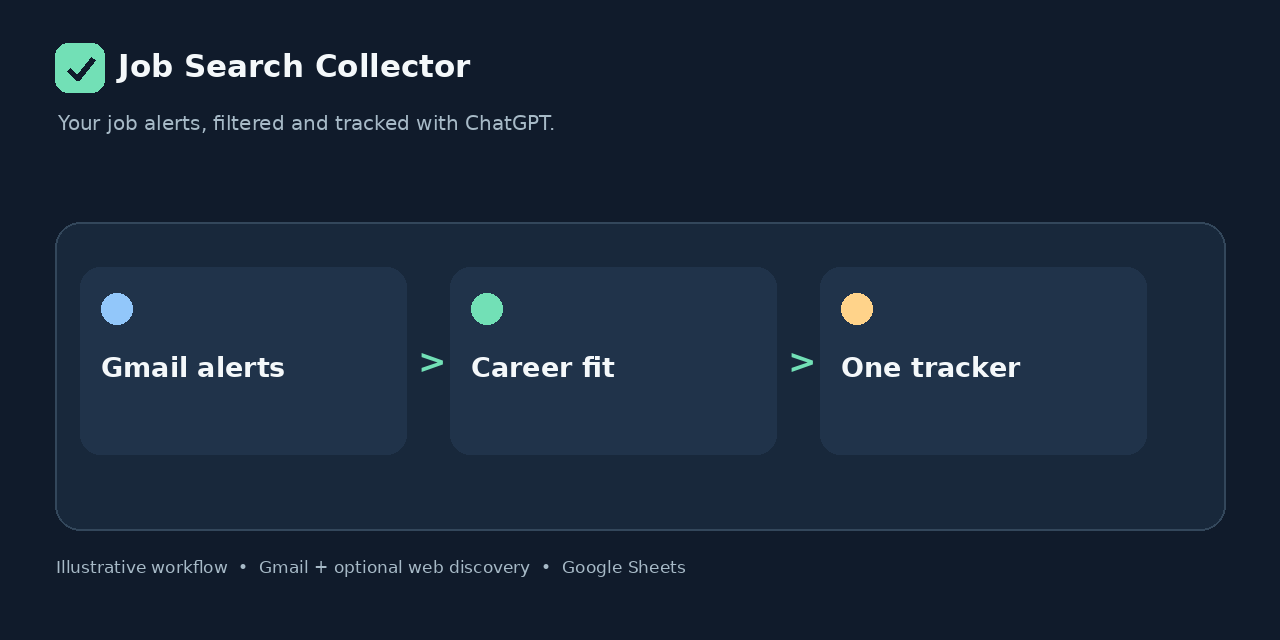
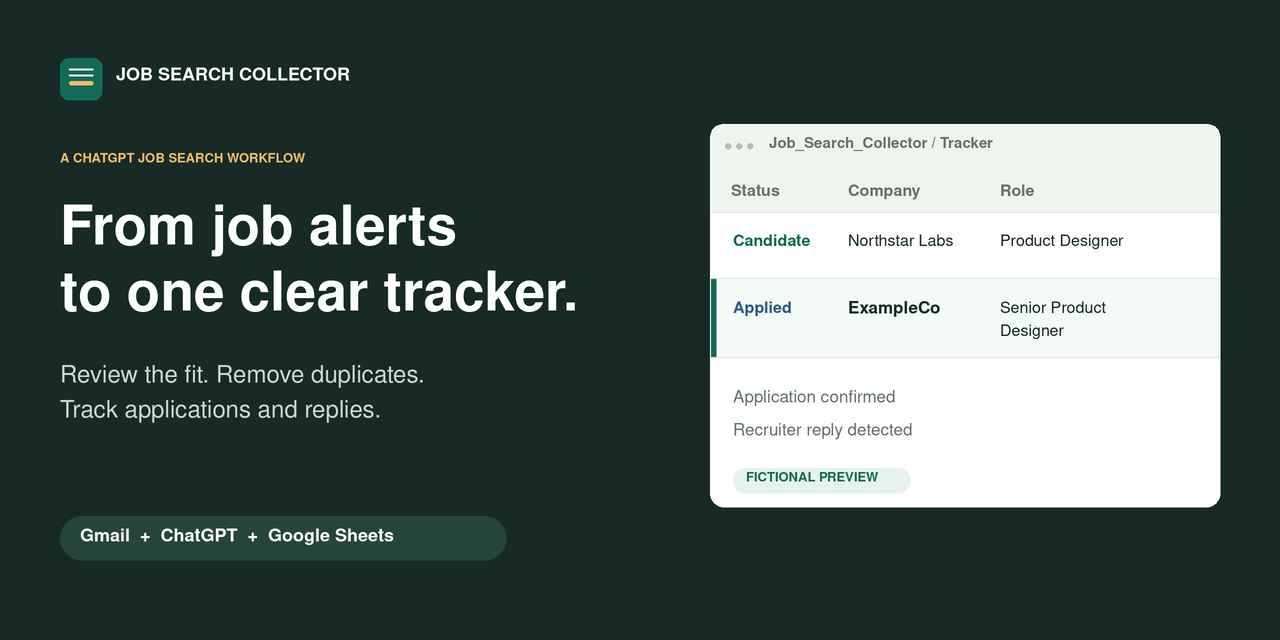
docs: redesign fictional product previews

diff --git a/tools/render_previews.py b/tools/render_previews.py
@@ -1,106 +1,224 @@
-"""Render fictional README previews. Requires Pillow; not needed to use the workflow."""
+"""Render fictional interface illustrations for the README. Requires Pillow.
+
+These assets illustrate the sample run; they are not connected account captures.
+"""
 from pathlib import Path
 from PIL import Image, ImageDraw, ImageFont
 
-ROOT = Path(__file__).resolve().parents[1]
-ASSETS = ROOT / 'assets'
+ASSETS = Path(__file__).resolve().parents[1] / "assets"
 ASSETS.mkdir(exist_ok=True)
-FONT = '/usr/share/fonts/truetype/dejavu/DejaVuSans.ttf'
-BOLD = '/usr/share/fonts/truetype/dejavu/DejaVuSans-Bold.ttf'
-C = dict(bg='#101B2B', panel='#18283B', raised='#20334A', line='#33475B', white='#F4F8FA', muted='#A7BAC7', mint='#72E0B6', blue='#92C7FA', amber='#FFD38A', sheet='#F5F8FB', ink='#26394B', pale='#E7EFF4')
+FONT = "/usr/share/fonts/opentype/urw-base35/NimbusSans-Regular.otf"
+BOLD = "/usr/share/fonts/opentype/urw-base35/NimbusSans-Bold.otf"
+PAPER, WHITE, INK = "#F6F7F3", "#FFFFFF", "#172A26"
+MUTED, FAINT, LINE = "#64736D", "#8B9992", "#DCE5DF"
+GREEN, PALE, SOFT = "#146B55", "#E5F3EC", "#F0F4EF"
 
-def f(size, bold=False): return ImageFont.truetype(BOLD if bold else FONT, size)
-def rr(d, box, fill, radius=18, outline=None, width=1): d.rounded_rectangle(box, radius=radius, fill=fill, outline=outline, width=width)
-def txt(d, at, s, size=20, color=None, bold=False): d.text(at, s, font=f(size,bold), fill=color or C['white'])
-def pill(d, box, label, fill, fg=None, size=16):
-    rr(d,box,fill,16); txt(d,(box[0]+13,box[1]+(box[3]-box[1]-size)//2-2),label,size,fg or C['ink'],True)
+class Art:
+    def __init__(self, w, h, bg=PAPER):
+        self.w, self.h = w, h
+        self.im = Image.new("RGB", (w*2, h*2), bg)
+        self.d = ImageDraw.Draw(self.im)
+    def box(self, x, y, w, h, fill, r=0, outline=None):
+        self.d.rounded_rectangle((x*2,y*2,(x+w)*2,(y+h)*2),r*2,fill,outline,2)
+    def line(self,x1,y1,x2,y2,color=LINE,weight=1):
+        self.d.line((x1*2,y1*2,x2*2,y2*2),fill=color,width=weight*2)
+    def text(self,x,y,s,size=18,color=INK,bold=False,anchor=None):
+        f=ImageFont.truetype(BOLD if bold else FONT,size*2)
+        self.d.text((x*2,y*2),s,font=f,fill=color,anchor=anchor)
+    def dot(self,x,y,r,color):
+        self.box(x-r,y-r,2*r,2*r,color,r)
+    def image(self):
+        return self.im.resize((self.w,self.h),Image.Resampling.LANCZOS)
+    def save(self,name):
+        self.image().save(ASSETS/name,optimize=True)
 
-def logo(d,x,y):
-    rr(d,(x,y,x+49,y+49),C['mint'],13)
-    d.line((x+13,y+26,x+22,y+35,x+38,y+15),fill=C['bg'],width=6,joint='curve')
+def mark(a,x,y,s=36):
+    a.box(x,y,s,s,GREEN,9)
+    for yy in (11,17): a.line(x+9,y+yy,x+s-9,y+yy,WHITE,2)
+    a.box(x+9,y+23,s-18,4,"#F2BC69",2)
 
-def base(w,h,title,subtitle):
-    im=Image.new('RGB',(w,h),C['bg']);d=ImageDraw.Draw(im)
-    logo(d,55,43);txt(d,(118,48),title,31,bold=True)
-    txt(d,(58,111),subtitle,20,C['muted'])
-    return im,d
+def brand(a,right):
+    mark(a,58,38)
+    a.text(105,42,"JOB SEARCH COLLECTOR",17,INK,True)
+    a.text(right,48,"ILLUSTRATIVE / FICTIONAL DATA",12,MUTED,True,"ra")
 
-# Tracker screenshot: selected columns from the real 14-column schema.
-im,d=base(1400,710,'Job Search Collector','Illustrative Tracker preview  |  fictional data  |  selected columns')
-rr(d,(55,165,1345,635),C['sheet'],18)
-rr(d,(55,165,1345,226),'#DFECEB',18)
-d.rectangle((55,205,1345,226),fill='#DFECEB')
-txt(d,(84,180),'Tracker',23,C['ink'],True)
-pill(d,(1124,178,1318,212),'SAMPLE DATA','#CDE5DD','#22634E',14)
-cols=[('Status',84,145),('Company',240,170),('Title',430,264),('Location',715,163),('ReceivedAt',895,167),('AppliedAt',1085,169)]
-d.rectangle((55,226,1345,284),fill='#EDF3F6')
-for label,x,width in cols: txt(d,(x,242),label,16,C['ink'],True)
-for y in (284,386,488):d.line((55,y,1345,y),fill='#D6E2E9',width=2)
-rows=[('Candidate','Northstar Labs','Product Designer','Remote, Canada','Sep 8, 2026',''),('Applied','SampleWorks','Product Designer','Remote, Canada','Sep 6, 2026','Sep 9, 2026'),('Applied','ExampleCo','Senior Product Designer','Toronto, ON','Sep 7, 2026','Sep 9, 2026')]
-for j,row in enumerate(rows):
-    y=301+j*102
-    pill(d,(84,y+9,206,y+44),row[0],'#DAEEE7' if row[0]=='Candidate' else '#DFE9FB','#286856' if row[0]=='Candidate' else '#2D5F9A',15)
-    for val,x in zip(row[1:],[240,430,715,895,1085]):txt(d,(x,y+12),val,17,C['ink'])
-    note=['Fit: consumer onboarding','Application confirmation detected','Recruiter reply detected'][j]
-    txt(d,(240,y+54),note,15,'#627C8D')
-txt(d,(75,653),'Full Tracker: 14 columns. Matching reasons are recorded in Notes; there is no numeric fit score.',16,C['muted'])
-im.save(ASSETS/'tracker-preview.png',optimize=True)
+def chrome(a,x,y,w,name):
+    a.box(x,y,w,42,SOFT,9)
+    a.box(x,y+28,w,14,SOFT)
+    for dx in (17,28,39): a.dot(x+dx,y+21,3,"#B3C1B7")
+    a.text(x+58,y+12,name,15,MUTED,True)
 
-# Animated mock interface: fictional data, never a recording of connected accounts.
+def badge(a,x,y,label,applied=False,small=False):
+    width=89 if small else 103
+    a.box(x,y,width,27,"#E8F0FA" if applied else PALE,14)
+    a.text(x+12,y+5,label,14,"#285C88" if applied else GREEN,True)
+
+def table(a,x,y,w,compact=False,state="reply",include_example=True):
+    h=266 if compact else 412
+    a.box(x+3,y+7,w,h,"#E7EBE5",12)
+    a.box(x,y,w,h,WHITE,12,LINE)
+    chrome(a,x+1,y+1,w-2,"Job_Search_Collector  /  Tracker")
+    a.box(x+1,y+42,w-2,37,WHITE)
+    a.text(x+22,y+52,"Tracker",16,INK,True)
+    a.text(x+w-22,y+54,"14 columns  ·  selected fields shown",13,FAINT,anchor="ra")
+    top=y+79
+    a.box(x+1,top,w-2,39,SOFT)
+    edges=[x+int(w*f) for f in (0,.105,.245,.472,.635,.79,.895,1)]
+    labels=("Status","Company","Title","Notes","ReceivedAt","AppliedAt","RespondedAt")
+    for i,label in enumerate(labels):
+        a.text(edges[i]+12,top+12,label,13 if compact else 16,MUTED,True)
+    a.line(x,top+39,x+w,top+39)
+    if compact:
+        rows=[("Candidate","Northstar Labs","Product Designer","Consumer onboarding","Sep 8","","")]
+        if include_example:
+            rows.append(("Candidate" if state=="candidate" else "Applied","ExampleCo",
+                         "Senior Product Designer","B2C funnel + design systems","Sep 7",
+                         "Sep 9" if state in ("applied","reply") else "",
+                         "Sep 12" if state=="reply" else ""))
+        rowheight=69
+    else:
+        rows=[
+            ("Candidate","Northstar Labs","Product Designer","Consumer onboarding","Sep 8","",""),
+            ("Applied","SampleWorks","Product Designer","Application confirmed","Sep 6","Sep 9",""),
+            ("Applied","ExampleCo","Senior Product Designer","B2C funnel + design systems","Sep 7","Sep 9","Sep 12")]
+        rowheight=92
+    yy=top+39
+    for index,row in enumerate(rows):
+        if row[1]=="ExampleCo":
+            a.box(x+1,yy,w-2,rowheight,"#F4FAF6")
+            a.box(x+1,yy,4,rowheight,GREEN)
+        for i,value in enumerate(row):
+            cx=edges[i]+12
+            if i==0:
+                badge(a,cx,yy+(16 if compact else 22),value,value=="Applied",compact)
+            else:
+                a.text(cx,yy+(24 if compact else 29),value or "·",
+                       13 if compact else 16,
+                       INK if i in (1,2) else MUTED, i==1 and row[1]=="ExampleCo")
+        yy+=rowheight
+        a.line(x,yy,x+w,yy)
+    if not compact:
+        a.box(x+1,y+h-22,w-2,21,WHITE)
+        a.box(x+17,y+h-27,98,27,PALE,8)
+        a.text(x+33,y+h-22,"Tracker",14,GREEN,True)
+
+def mail(a,step):
+    x,y,w=58,237,450
+    a.box(x,y,w,339,WHITE,12,LINE)
+    chrome(a,x+1,y+1,w-2,"Gmail  /  Job alerts")
+    if step<3:
+        sender,subject,date="LinkedIn Job Alerts","Senior Product Designer at ExampleCo","SEP 7"
+        lines=("ExampleCo is hiring in Toronto (hybrid).",
+               "Improve the consumer application funnel",
+               "and extend a design system across teams.")
+    elif step==3:
+        sender,subject,date="ExampleCo Careers","We received your application","SEP 9"
+        lines=("Your application for Senior Product Designer",
+               "at ExampleCo has been received.","")
+    else:
+        sender,subject,date="ExampleCo Recruiting","Re: Senior Product Designer","SEP 12"
+        lines=("Thank you for applying. Could we schedule",
+               "a conversation next week?","")
+    a.dot(x+39,y+87,18,PALE)
+    a.text(x+39,y+78,sender[0],18,GREEN,True,"ma")
+    a.text(x+72,y+65,sender,18,INK,True)
+    a.text(x+w-23,y+69,date,12,MUTED,True,"ra")
+    a.line(x+23,y+113,x+w-23,y+113)
+    a.text(x+24,y+139,subject,20,INK,True)
+    for i,line in enumerate(lines):
+        if line: a.text(x+24,y+190+i*31,line,17,MUTED)
+    a.box(x+24,y+298,115,24,SOFT,5)
+    a.text(x+34,y+302,"Inbox / Jobs",13,GREEN,True)
+
+def review(a,step):
+    x,y,w=528,237,1542
+    a.box(x,y,w-x,339,WHITE,12,LINE)
+    chrome(a,x+1,y+1,w-x-2,"ChatGPT  /  Daily review")
+    if step==0:
+        a.text(x+26,y+76,"PROFILE MATCHING",13,GREEN,True)
+        a.text(x+26,y+119,"Reading your job alert…",27,INK,True)
+        a.text(x+26,y+170,"Comparing the posting against your private profile",17,MUTED)
+        a.text(x+26,y+201,"and checking the tracker for duplicates.",17,MUTED)
+        a.box(x+26,y+273,374,7,SOFT,4)
+        a.box(x+26,y+273,156,7,GREEN,4)
+    else:
+        a.box(x+26,y+69,132,28,PALE,14)
+        a.text(x+39,y+74,"Strong match",15,GREEN,True)
+        a.text(x+26,y+111,"ExampleCo · Senior Product Designer",24,INK,True)
+        a.line(x+26,y+157,w-25,y+157)
+        for i,line in enumerate(("B2C application funnel ownership",
+                                 "Design system work across product teams",
+                                 "Toronto hybrid matches your location")):
+            a.dot(x+34,y+185+i*34,3,GREEN)
+            a.text(x+48,y+172+i*34,line,17,MUTED)
+        a.text(x+26,y+291,"One role  ·  duplicate alert ignored",14,GREEN,True)
+
+# Still: visible record names and dates match examples/sample-run.md.
+a=Art(1600,830)
+brand(a,1542)
+a.text(58,115,"THE OUTPUT",13,GREEN,True)
+a.text(58,143,"A tracker that stays current.",43,INK,True)
+a.text(58,201,"Relevant roles arrive as rows. Clear confirmations update the same row.",20,MUTED)
+table(a,58,263,1484)
+a.text(60,718,"ExampleCo: discovered Sep 7  →  applied Sep 9  →  reply Sep 12",19,GREEN,True)
+a.text(60,755,"Matching reasons live in Notes. Status stays Applied after a reply; no numeric fit score is added.",17,MUTED)
+a.save("tracker-preview.png")
+
+# Five held scenes, 14.5 seconds, with actual changes to the mail and row.
 frames=[]
-for step in range(4):
-    im,d=base(1100,615,'From job alert to tracked reply','Illustrative demo  |  fictional data  |  connected behavior varies')
-    panels=[(55,165,365,510),(390,165,700,510),(725,165,1045,510)]
-    for x1,y1,x2,y2 in panels: rr(d,(x1,y1,x2,y2),C['panel'],17,outline=C['line'],width=2)
-    for x,label,num in [(75,'Gmail alert','01'),(410,'ChatGPT review','02'),(745,'Tracker','03')]:
-        pill(d,(x,183,x+45,217),num,C['raised'],C['mint'],14)
-        txt(d,(x+55,188),label,19,bold=True)
-    # Email: visible from the first frame.
-    rr(d,(74,239,346,451),C['raised'],13)
-    txt(d,(90,256),'LinkedIn Job Alerts',15,C['muted'])
-    txt(d,(90,291),'Senior Product',20,bold=True)
-    txt(d,(90,321),'Designer at ExampleCo',16,C['white'])
-    d.line((90,353,330,353),fill=C['line'],width=2)
-    txt(d,(90,371),'Toronto  /  Hybrid',15,C['blue'])
-    txt(d,(90,402),'B2C funnel, design system',13,C['muted'])
-    # Match: appears in frame two, stays visible afterwards.
-    if step>=1:
-        pill(d,(409,245,558,281),'Strong match',C['mint'],C['bg'],16)
-        txt(d,(410,311),'Why this fits',19,bold=True)
-        txt(d,(410,349),'B2C funnel ownership',15,C['white'])
-        txt(d,(410,381),'Design-system experience',15,C['white'])
-        txt(d,(410,413),'Toronto hybrid preference',14,C['muted'])
-    else:
-        txt(d,(412,318),'Comparing with',18,C['muted'])
-        txt(d,(412,349),'private profile ...',18,C['muted'])
-    # Tracker: candidate row, then applied, then reply date.
-    if step>=2:
-        pill(d,(745,243,861,277),'Applied' if step>=2 else 'Candidate',C['blue'],C['bg'],16)
-        txt(d,(745,304),'ExampleCo',19,bold=True)
-        txt(d,(745,338),'Senior Product Designer',15,C['white'])
-        d.line((745,374,1023,374),fill=C['line'],width=2)
-        txt(d,(745,390),'AppliedAt  Sep 9',15,C['muted'])
-        txt(d,(745,423),'RespondedAt  Sep 12' if step==3 else 'RespondedAt  —',15,C['mint'] if step==3 else C['muted'])
-    else:
-        txt(d,(746,312),'Candidate row',18,C['muted'])
-        txt(d,(746,344),'created if permitted',15,C['muted'])
-    d.line((365,335,386,335),fill=C['mint'],width=5)
-    d.line((700,335,721,335),fill=C['mint'],width=5)
-    labels=['Alert received','Fit evaluated','Application confirmed','Reply detected']
-    txt(d,(56,541),f'{step+1}/4  {labels[step]}',16,C['mint'],True)
-    for k in range(4):rr(d,(465+k*143,547,584+k*143,556),C['mint'] if k<=step else C['line'],5)
-    frames.append(im)
-frames[0].save(ASSETS/'sample-workflow.gif',save_all=True,append_images=frames[1:],duration=[2000]*4,loop=0,optimize=True)
+labels=("Alert received","Fit evaluated","Candidate row created",
+        "Application confirmation found","Recruiter reply found")
+for step in range(5):
+    a=Art(1600,960)
+    brand(a,1542)
+    a.text(58,106,"From job alert to tracked reply.",42,INK,True)
+    a.text(58,160,"A role is reviewed, added once, then updated when clear email evidence arrives.",19,MUTED)
+    mail(a,step)
+    review(a,step)
+    a.text(58,613,"Tracker",21,INK,True)
+    a.text(1542,616,"SELECTED FIELDS  /  14 TOTAL",12,MUTED,True,"ra")
+    state="candidate" if step<3 else ("applied" if step==3 else "reply")
+    table(a,58,646,1484,True,state,step>=2)
+    a.box(58,915,1484,4,LINE,2)
+    a.box(58,915,int(1484*(step+1)/5),4,GREEN,2)
+    a.text(58,926,f"{step+1} / 5   {labels[step]}",16,GREEN,True)
+    a.text(1542,928,"The user applies before the confirmation arrives. No auto-apply.",
+           13,MUTED,anchor="ra")
+    frames.append(a.image())
+frames[0].save(ASSETS/"sample-workflow.gif",save_all=True,append_images=frames[1:],
+               duration=[2600,2900,2900,2900,3200],loop=0,optimize=True,disposal=2)
 
-# Use this PNG in GitHub Settings > Social preview; a settings change is separate from committing it.
-im,d=base(1280,640,'Job Search Collector','Your job alerts, filtered and tracked with ChatGPT.')
-rr(d,(55,222,1225,530),C['panel'],25,outline=C['line'],width=2)
-labels=[('Gmail alerts',80,C['blue']),('Career fit',450,C['mint']),('One tracker',820,C['amber'])]
-for i,(label,x,color) in enumerate(labels):
-    rr(d,(x,267,x+326,454),C['raised'],20)
-    d.ellipse((x+21,293,x+52,324),fill=color)
-    txt(d,(x+21,351),label,27,bold=True)
-    if i<2:txt(d,(x+338,341),'>',34,C['mint'],True)
-txt(d,(56,557),'Illustrative workflow  •  Gmail + optional web discovery  •  Google Sheets',17,C['muted'])
-im.save(ASSETS/'social-preview.png',optimize=True)
-print('Rendered assets in',ASSETS)
+# The share card keeps the same type, mark, palette and fictional record.
+a=Art(1280,640,INK)
+mark(a,60,58,42)
+a.text(116,67,"JOB SEARCH COLLECTOR",18,WHITE,True)
+a.text(60,153,"A CHATGPT JOB SEARCH WORKFLOW",13,"#F2BC69",True)
+a.text(60,204,"From job alerts",55,WHITE,True)
+a.text(60,270,"to one clear tracker.",55,WHITE,True)
+a.text(60,365,"Review the fit. Remove duplicates.",24,"#C9D9CF")
+a.text(60,400,"Track applications and replies.",24,"#C9D9CF")
+a.box(60,516,446,44,"#264539",22)
+a.text(80,528,"Gmail  +  ChatGPT  +  Google Sheets",18,WHITE,True)
+a.box(710,124,510,383,WHITE,14)
+chrome(a,711,125,508,"Job_Search_Collector / Tracker")
+a.box(711,167,508,45,SOFT)
+for s,x in (("Status",731),("Company",848),("Role",1000)):
+    a.text(x,184,s,16,MUTED,True)
+a.line(711,212,1219,212)
+a.text(733,234,"Candidate",16,GREEN,True)
+a.text(848,234,"Northstar Labs",16,INK)
+a.text(1000,234,"Product Designer",16,INK)
+a.line(711,278,1219,278)
+a.box(711,279,508,78,"#F4FAF6")
+a.box(711,279,5,78,GREEN)
+a.text(733,301,"Applied",16,"#285C88",True)
+a.text(848,301,"ExampleCo",17,INK,True)
+a.text(1000,301,"Senior Product",16,INK)
+a.text(1000,324,"Designer",16,INK)
+a.line(711,357,1219,357)
+a.text(733,390,"Application confirmed",17,MUTED)
+a.text(733,423,"Recruiter reply detected",17,MUTED)
+a.box(733,468,177,25,PALE,12)
+a.text(746,472,"FICTIONAL PREVIEW",13,GREEN,True)
+a.save("social-preview.png")
+print("Rendered the three README assets")
